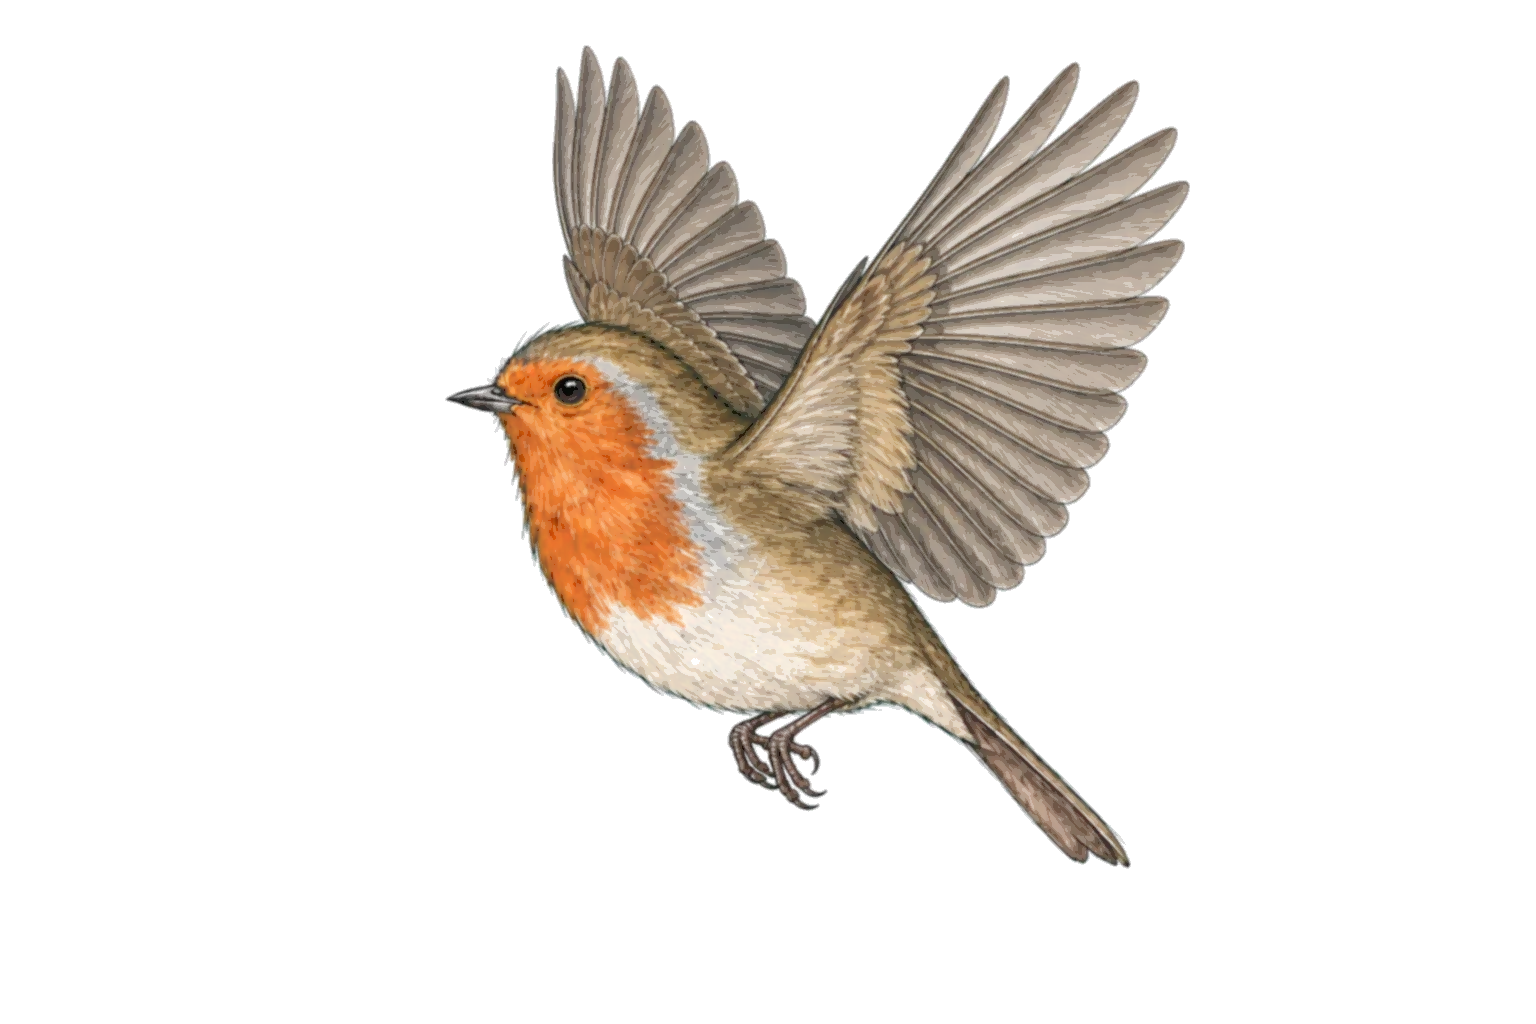
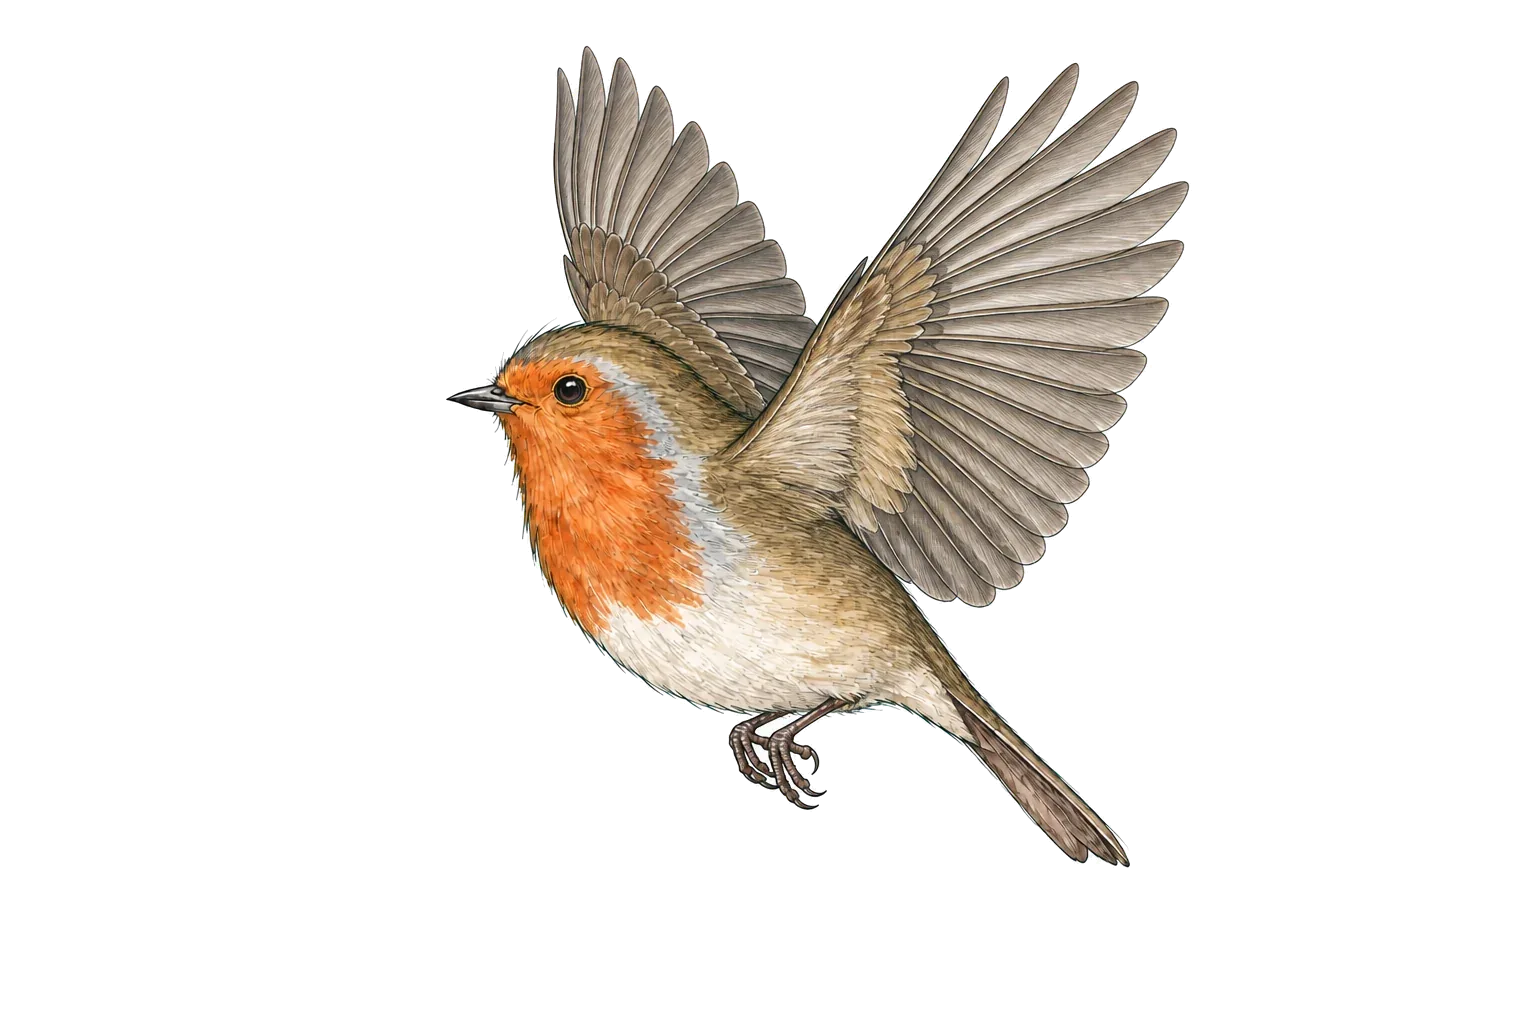
Landschaft: Vogel und Ast deckend freigestellt – der Bauch ist nicht mehr durchsichtig
Weiß → Transparenz macht helle Flächen zwangsläufig transparent (kein Pixel der Vogelbilder hatte
Alpha 255); Blätter und Nachthimmel schienen durch den Vogel. opaque_cutout in
tools/landschaft-bilder.py bestimmt die Silhouette per Flutfüllung vom Bildrand, setzt innen Alpha 1
und schätzt nur im 2-px-Saum die Deckung aus der nahen Innenfarbe (kein heller Rand). Gilt für die
fünf Vogelbilder und die Astverlängerung (links weiter pixelgleich); Krone und Ferne unverändert.
Vogelbilder 511 KB (Budget 600). Bericht behält bei Teilläufen die Einträge früherer Läufe.

diff --git a/tools/landschaft-bilder.py b/tools/landschaft-bilder.py
@@ -22,7 +22,7 @@ import subprocess
 from pathlib import Path
 
 import numpy as np
-from PIL import Image, ImageFilter, features, __version__ as pillow_version
+from PIL import Image, ImageDraw, ImageFilter, features, __version__ as pillow_version
 
 REPO = Path(__file__).resolve().parent.parent
 SOURCE_DIR = Path.home() / 'Documents/Second Brain/90_Meta/Design/Entwuerfe'
@@ -36,6 +36,7 @@ ORIGINALS = {
[1 lines of base64/hex data omitted]
 }
 PAPER = np.array([243, 239, 229], dtype=np.float32)
+ALPHA_QUALITY_BIRDS = 90  # deckende Silhouette mit weicher Kante: verlustarmes Alpha, sonst fransen die Ränder
 
 
 def digest(data: bytes) -> str:
@@ -67,6 +68,44 @@ def white_to_alpha(image: Image.Image) -> Image.Image:
     # Neutrales PNG-/WebP-Weißrauschen darf keinen grauen Flächenschleier bilden.
     near_white = (low >= 250.0) & (rgb.max(axis=2) - low <= 5.0)
     alpha[near_white] = 0.0
+    foreground = np.zeros_like(rgb)
+    np.divide(rgb - (1.0 - alpha[:, :, None]) * 255.0,
+              alpha[:, :, None], out=foreground, where=alpha[:, :, None] > 0)
+    alpha *= source[:, :, 3] / 255.0
+    out = np.dstack((np.clip(foreground, 0, 255), alpha * 255.0))
+    return Image.fromarray(np.rint(out).astype(np.uint8), 'RGBA')
+
+
+def opaque_cutout(image: Image.Image, background: int = 246, rim: int = 2, reach: float = 3.0) -> Image.Image:
+    """Deckende Freistellung für Figuren (Vögel, Ast). Weiß-zu-Alpha allein macht helle Flächen wie den
+    Bauch durchsichtig; hier wird die Silhouette per Flutfüllung vom Bildrand bestimmt (Hintergrund =
+    min(R,G,B) >= background, 4er-Nachbarschaft). Innen: Alpha 1, Originalfarbe. Außen: Alpha 0.
+    Kantensaum (rim Pixel breit): Deckung aus der nahen Innenfarbe geschätzt (c = f·d + 255·(1−d),
+    kleinste Quadrate über RGB, f = Innenfarbe im Umkreis reach), nach unten durch Weiß-zu-Alpha
+    begrenzt; die Saumfarbe wird vom eingemischten Weiß befreit. So entsteht vor dunklem Grund weder
+    ein heller Saum noch ein Geisterbild."""
+    source = np.asarray(image.convert('RGBA'), dtype=np.float32)
+    rgb = source[:, :, :3]
+    low = rgb.min(axis=2)
+    height, width = low.shape
+    mask = Image.new('L', (width+2, height+2), 255)  # ein Pixel Rand, damit die Füllung überall ansetzt
+    mask.paste(Image.fromarray(np.where(low >= background, 255, 0).astype(np.uint8)), (1, 1))
+    ImageDraw.floodfill(mask, (0, 0), 128)
+    exterior = np.asarray(mask)[1:-1, 1:-1] == 128
+    inside = Image.fromarray(np.where(exterior, 0, 255).astype(np.uint8))
+    core = np.asarray(inside.filter(ImageFilter.MinFilter(2*rim+1))) == 255  # sicher voll bedeckt
+    lower = 1.0 - low / 255.0  # Weiß-zu-Alpha ist eine harte Untergrenze der Deckung
+    near_white = (low >= 250.0) & (rgb.max(axis=2) - low <= 5.0)
+    lower[near_white] = 0.0
+    # Innenfarbe im Umkreis: vorgewichtete Mittelung (Farbe·Kern) / Kern, 8-Bit-Gauß genügt.
+    blur = lambda a: np.asarray(Image.fromarray(np.rint(a).astype(np.uint8), 'L').filter(ImageFilter.GaussianBlur(reach)), dtype=np.float32)
+    weight = blur(core * 255.0) / 255.0
+    local = np.dstack([blur(rgb[:, :, i] * core) for i in range(3)]) / np.maximum(weight, 1e-6)[:, :, None]
+    contrast = 255.0 - local
+    fit = ((255.0 - rgb) * contrast).sum(axis=2) / np.maximum((contrast * contrast).sum(axis=2), 1.0)
+    known = weight > 0.02  # ohne Innenfarbe in Reichweite bleibt nur die Untergrenze
+    coverage = np.where(known, np.clip(fit, 0.0, 1.0), lower)
+    alpha = np.where(exterior, 0.0, np.where(core, 1.0, np.maximum(coverage, lower)))
     foreground = np.zeros_like(rgb)
     np.divide(rgb - (1.0 - alpha[:, :, None]) * 255.0,
               alpha[:, :, None], out=foreground, where=alpha[:, :, None] > 0)
@@ -209,11 +248,11 @@ def build_birds(repo: Path, output: Path) -> list[dict]:
             continue
         path = repo / 'assets/bestand' / name
         source = Image.open(path)
-        cutout = white_to_alpha(source.filter(ImageFilter.GaussianBlur(1.0)))
+        cutout = opaque_cutout(source)  # deckend: der helle Bauch darf Blätter und Nachthimmel nicht durchscheinen lassen
         report = source_stats(path, source)
-        report['source_prefilter_gaussian_radius_px_at_original_size'] = 1.0
+        report['matte'] = 'opaque_cutout: Silhouette per Flutfüllung, innen Alpha 1, Saum 2 px mit geschätzter Deckung'
         report['crop'] = [0, 0, *source.size]
-        report['outputs'] = [export(cutout, output/name, 83, alpha_quality=40)]
+        report['outputs'] = [export(cutout, output/name, 83, alpha_quality=ALPHA_QUALITY_BIRDS)]
         reports.append(report)
     total = sum(r['outputs'][0]['bytes'] for r in reports)
     if total > 600000:
@@ -227,7 +266,7 @@ def build_branch(path: Path, repo: Path, output: Path) -> dict:
     original=np.asarray(Image.open(original_path).convert('RGBA'),dtype=np.float32)
     start=864; blend=136; width=2800; height=167
     crop=(round(source.width*950/2172),round(source.height*270/724),source.width,round(source.height*410/724))
-    cut=white_to_alpha(source).crop(crop)
+    cut=opaque_cutout(source).crop(crop)  # deckend wie der Bestandsast links
     scale=(width-start)/cut.width
     cut=cut.resize((width-start,round(cut.height*scale)),Image.Resampling.LANCZOS)
     new=np.asarray(cut,dtype=np.float32)
@@ -327,15 +366,16 @@ def main() -> None:
     report_path.parent.mkdir(parents=True, exist_ok=True)
     avif = not args.no_avif and features.check('avif')
     report = {
-        'pipeline_version': 2, 'season': args.season,
+        'pipeline_version': 3, 'season': args.season,
         'runtime': {'pillow': pillow_version, 'numpy': np.__version__, 'avif_encoder': avif},
         'method': {
             'color_to_alpha': 'a = 1 - min(R,G,B)/255; f = (rgb - (1-a)*255)/a',
             'near_white_cleanup': 'min(R,G,B) >= 250 und max(rgb)-min(rgb) <= 5 → Alpha 0',
+            'figure_matte': 'Vögel und Ast-Verlängerung: Silhouette per Flutfüllung vom Bildrand (min(R,G,B) >= 246 = Hintergrund), innen Alpha 1 mit Originalfarbe, Saum 2 px: Deckung aus naher Innenfarbe geschätzt (kleinste Quadrate, Umkreis 3 px), Untergrenze Farbe-zu-Alpha, Saumfarbe vom Weiß befreit. Krone und Ferne bleiben Farbe-zu-Alpha (Papier scheint durch).',
             'existing_alpha': 'Ausgangsalpha wird multipliziert; Vögel immer aus unverändertem Bestand.',
             'resampling': 'Lanczos; source RGB vor CTA; Ast RGBA/Pillow (vorgewichtetes Alpha)',
-            'prefilter': 'Krone 1px bei 1000px, 0.5px bei 560px; Vögel 1px bei nativer Größe; Ferne ohne Vorfilter.',
-            'webp_alpha_quality': '40 für Krone/Vögel, 100 für Ferne; Ast vollständig verlustfrei.',
+            'prefilter': 'Krone 1px bei 1000px, 0.5px bei 560px; Vögel und Ferne ohne Vorfilter.',
+            'webp_alpha_quality': f'40 für Krone, {ALPHA_QUALITY_BIRDS} für Vögel, 100 für Ferne; Ast vollständig verlustfrei.',
             'avif': 'Qualität 82, speed 4, YUV 4:2:0',
             'webp_rgb_quality': 83, 'paper_rgb': PAPER.astype(int).tolist(),
             'crop_coordinates': '[links, oben, rechts exklusiv, unten exklusiv]',
@@ -351,6 +391,14 @@ def main() -> None:
         report['images'].extend(build_birds(repo, output))
     if not args.skip_branch:
         report['images'].append(build_branch(branch, repo, output))
+    # Teilläufe (--skip-…) behalten die Einträge früherer Läufe für nicht neu gebaute Dateien.
+    built = {o['file'] for entry in report['images'] for o in entry['outputs']}
+    if report_path.exists():
+        try:
+            previous = json.loads(report_path.read_text(encoding='utf-8')).get('images', [])
+        except (OSError, ValueError):
+            previous = []
+        report['images'] = [e for e in previous if not any(o['file'] in built for o in e.get('outputs', []))] + report['images']
     report['available_seasons'] = sorted({p.name[len('krone-'):-len('-1000.webp')] for p in output.glob('krone-*-1000.webp')} & {p.name[len('ferne-'):-len('-1400.webp')] for p in output.glob('ferne-*-1400.webp')})
     outputs = [o for entry in report['images'] for o in entry['outputs']]
     report['total_output_bytes'] = sum(o['bytes'] for o in outputs)

diff --git a/README.md b/README.md
@@ -220,7 +220,7 @@ im Projektordner → http://localhost:8788/tests/im-browser.html); dort laufen d
 `python3 tests/consent_test.py <Adresse>` prüft die Einwilligung (siehe oben).
 Die visuelle Abnahme erfolgt zusätzlich im Browser auf breitem und schmalem Bildschirm.
 
-## Landschaft (Stand 20.09.2026)
+## Landschaft (Stand 21.09.2026)
 
 Um Goch herum liegt eine Landschaft in zwei Ebenen – **nah**: sein Ast, der rechts aus dem Bild läuft,
 und darüber ein Stück Buchenkrone desselben Baums; **fern**: der Kegelberg mit der Burg Hohenzollern im
@@ -232,15 +232,26 @@ Alles wird im Browser berechnet (`landscape.js`, eigene Portierung von SunCalc 1
 Rückfall 45° N / UTC-Versatz), keine Standortabfrage, kein Fremddienst, nichts wird gespeichert.
 
 **Schalter:** `data-landschaft="an|aus"` am `<body>` – in der Redaktion unter „Startseite – Landschaft“ (ein Haken, „Veröffentlichen“ = Commit; dort auch Vorschau-Links für Mittag, Dämmerung, Nacht und ohne Landschaft). Steht er auf `aus`, ist die
-Seite exakt die von vor der Landschaft – auch die Vogelbilder kommen dann aus `assets/bestand/`
-(byteidentische Originale mit weißem Grund und `multiply`). Zum Prüfen: `?landschaft=an` übersteuert
-den Schalter, `?landschaft=aus` schaltet ab, `?zeit=YYYY-MM-DDTHH:mm` setzt die Uhr, `?ort=lat,lon`
-den Ort (z. B. `?landschaft=an&zeit=2026-10-14T23:00`).
+Seite exakt die von vor der Landschaft: Vogel und Ast kommen aus `assets/bestand/` (byteidentische
+Originale, kurzer Ast, weißer Grund und `multiply`). Vogel und Ast gibt es also zweimal, und die
+Redaktion schreibt beim Umschalten **beide Pfade mit** (Szene, `<link rel="preload">` im `<head>`, Astbreite
+1153/2800 – `applyLandscape` in `worker/src/admin.js`), damit vom ersten Bild an das Richtige in der Seite
+steht und nichts doppelt geladen wird; `landscape.js` tauscht nur noch für `?landschaft=an|aus` zur
+Laufzeit (dabei blitzt der andere Ast kurz auf – das ist der Preis der Vorschau). Zum Prüfen: `?landschaft=an`
+übersteuert den Schalter, `?landschaft=aus` schaltet ab, `?zeit=YYYY-MM-DDTHH:mm` setzt die Uhr, `?ort=lat,lon`
+den Ort (z. B. `?landschaft=an&zeit=2026-10-14T23:00`). `node tests/site_test.mjs` prüft, dass Pfade und
+Schalter zusammenpassen und das Umschalten in beide Richtungen die Datei sonst unangetastet lässt.
 
 **Bilder mit Alpha statt Weiß.** `mix-blend-mode: multiply` trägt nur auf hellem Papier; auf dem
-Nachtpapier verschwänden Landschaft und Vogel. Deshalb sind Krone, Ferne und die fünf Vogelbilder
-freigestellt (Weiß → Transparenz, `tools/landschaft-bilder.py`, Protokoll in `tools/landschaft-bilder.json`)
-und werden ohne Blendmodus gezeigt; nachts dunkelt ein SVG-Farbfilter (`#landscape-moonlight`,
+Nachtpapier verschwänden Landschaft und Vogel. Deshalb sind Krone, Ferne, die fünf Vogelbilder und die
+Astverlängerung freigestellt (`tools/landschaft-bilder.py`, Protokoll in `tools/landschaft-bilder.json`)
+und werden ohne Blendmodus gezeigt. Zwei Verfahren: Krone und Ferne bekommen **Weiß → Transparenz**
+(a = 1 − min(R,G,B)/255) – das Papier scheint durch, wie bei Aquarell gewollt. Vogel und Ast sind Figuren
+und müssen **deckend** sein: Weiß → Transparenz allein machte den hellen Bauch durchsichtig (Blätter und
+Nachthimmel schienen durch). `opaque_cutout` bestimmt deshalb die Silhouette per Flutfüllung vom Bildrand,
+setzt innen Alpha 1 mit Originalfarbe und schätzt nur im 2-px-Saum die Deckung aus der nahen Innenfarbe
+(kleinste Quadrate; Untergrenze Weiß → Transparenz; Saumfarbe vom Weiß befreit – kein heller Rand, kein
+Geisterbild). Nachts dunkelt ein SVG-Farbfilter (`#landscape-moonlight`,
 × 0,55/0,62/0,80) Ebenen, Vogel, Ast und Blätter ab. Dateien: `assets/krone-herbst-{1000,560}.{avif,webp}`,
 `assets/ferne-herbst-{1400,800}.{avif,webp}` (AVIF zuerst, WebP als Rückfall, `srcset`; nur die
 aktuelle Jahreszeit wird geladen), `assets/ast.webp` (2800 × 167, links pixelgleich mit dem alten Ast).
@@ -257,11 +268,13 @@ Textfarben werden zur Laufzeit nachgeführt, bis jedes Paar ≥ 4,5 : 1 hat (`--
 nachts mit `theme: "dark"` initialisiert. Goch hängt mit Landschaft unter dem Namen statt darüber.
 `prefers-reduced-motion`: keine Bewegung; verborgener Tab: Blätter und Sterne pausieren.
 
-**Gewicht:** Erstaufruf Schreibtisch/Herbst ≈ 0,93 MB (Budget 1,2 MB); Vogelbilder zusammen 431 KB
-(vorher 505 KB); `landscape.js` 17,7 KB unkomprimiert (Budget 15 KB, bewusst lesbar mit Kommentaren –
-gzip ≈ 6 KB). **Prüfen:** `node tests/landscape.test.cjs` (15 Punkte: Sonnenhöhen 48,27° N/8,85° O,
+**Gewicht:** Erstaufruf Schreibtisch/Herbst ≈ 1,0 MB (Budget 1,2 MB; Krone-AVIF 118 KB, Ferne-AVIF 77 KB,
+Ast 183 KB, Vogelbilder zusammen 511 KB – deckend und ohne Vorfilter etwas schwerer als die 431 KB der
+durchsichtigen Fassung, Budget 600 KB); ohne Landschaft lädt die Seite nur `assets/bestand/` wie früher.
+`landscape.js` 18,8 KB unkomprimiert (Budget 15 KB, bewusst lesbar mit Kommentaren – gzip ≈ 6 KB).
+**Prüfen:** `node tests/landscape.test.cjs` (15 Punkte: Sonnenhöhen 48,27° N/8,85° O,
 Mondphasen nach USNO, Bühne, Jahreszeiten, Zeitzonen, URL-Parameter) – auch in `tests/im-browser.html`;
-dazu unverändert `bird-flight.test.cjs`, `consent_test.py`, `goch_test.py`.
+`node tests/site_test.mjs` (Schalter und Bildpfade); dazu unverändert `bird-flight.test.cjs`, `consent_test.py`, `goch_test.py`.
 
 ## Goch, das Rotkehlchen von Robin (Stand 17.09.2026)
 

diff --git a/LANDSCHAFT.md b/LANDSCHAFT.md
@@ -30,8 +30,22 @@ Codex' Kontingent aufgebraucht war. Beschreibung in README, Abschnitt „Landsch
 | `?landschaft=aus` und Schalter `aus` | Seite exakt wie vor der Landschaft (Name unten, alter Ast, Vogelbilder aus `assets/bestand/`, `multiply`) |
 | Goch-Sprechblase mit Landschaft (1440 px) | unter dem Namen, 400 px breit, Schnabel zum Vogel |
 
+## Nachbesserung 21.09.2026 (Robins Rückmeldung nach dem Einschalten)
+1. **Ohne Landschaft blitzte erst der lange Ast auf, dann der kurze.** Die Startseite trug die Pfade der
+   Landschaftsfassung (`assets/ast.webp`, 2800 px) und `landscape.js` tauschte erst nach dem Laden auf
+   `assets/bestand/`. Jetzt trägt `index.html` die Pfade der **eingeschalteten** Fassung (Szene, Vorabladen,
+   Astbreite); die Redaktion schreibt sie beim Umschalten mit (`applyLandscape`), `landscape.js` tauscht nur noch
+   für `?landschaft=an|aus`. Geprüft im Browser: ohne Landschaft werden ausschließlich `assets/bestand/*` geladen
+   (sechs Anfragen, keine doppelte), Ast 1153 px von Anfang an. `node tests/site_test.mjs` (13 Punkte).
+2. **Der Vogel war durchsichtig** (Blätter hinter ihm schienen durch). Weiß → Transparenz macht helle Flächen wie
+   den Bauch zwangsläufig transparent (kein Pixel hatte Alpha 255). Neues Verfahren `opaque_cutout` in
+   `tools/landschaft-bilder.py` für Vogelbilder und Astverlängerung: Silhouette per Flutfüllung vom Bildrand,
+   innen Alpha 1, 2-px-Saum mit geschätzter Deckung aus der nahen Innenfarbe. Vogelbilder jetzt 511 KB
+   (Budget 600), Ast 183 KB, links weiterhin pixelgleich mit dem alten Ast. Krone und Ferne unverändert
+   (dort ist das Durchscheinen des Papiers gewollt). Geprüft: Bauch nachts deckend vor dem Himmel, keine hellen Säume.
+   `tools/landschaft-bilder.json` behält bei Teilläufen (`--skip-…`) jetzt die Einträge früherer Läufe.
+
 ## Offen / Robins Abnahme
-- Live prüfen mit `?landschaft=an&zeit=…` (Mittag, Dämmerung, Mitternacht, ein Vollmond, Handy); dann
-  Schalter in der Redaktion auf „an“.
+- Live prüfen mit den Vorschau-Links der Redaktion (Mittag, Dämmerung, Nacht, Handy); dann Schalter auf „an“.
 - Weitere Jahreszeiten (Winter bis 1. Dezember) nach README-Abschnitt „Landschaft“.
 - Idee: nachts ein warmer Lichtpunkt an der Burg (Robins Entscheidung).
